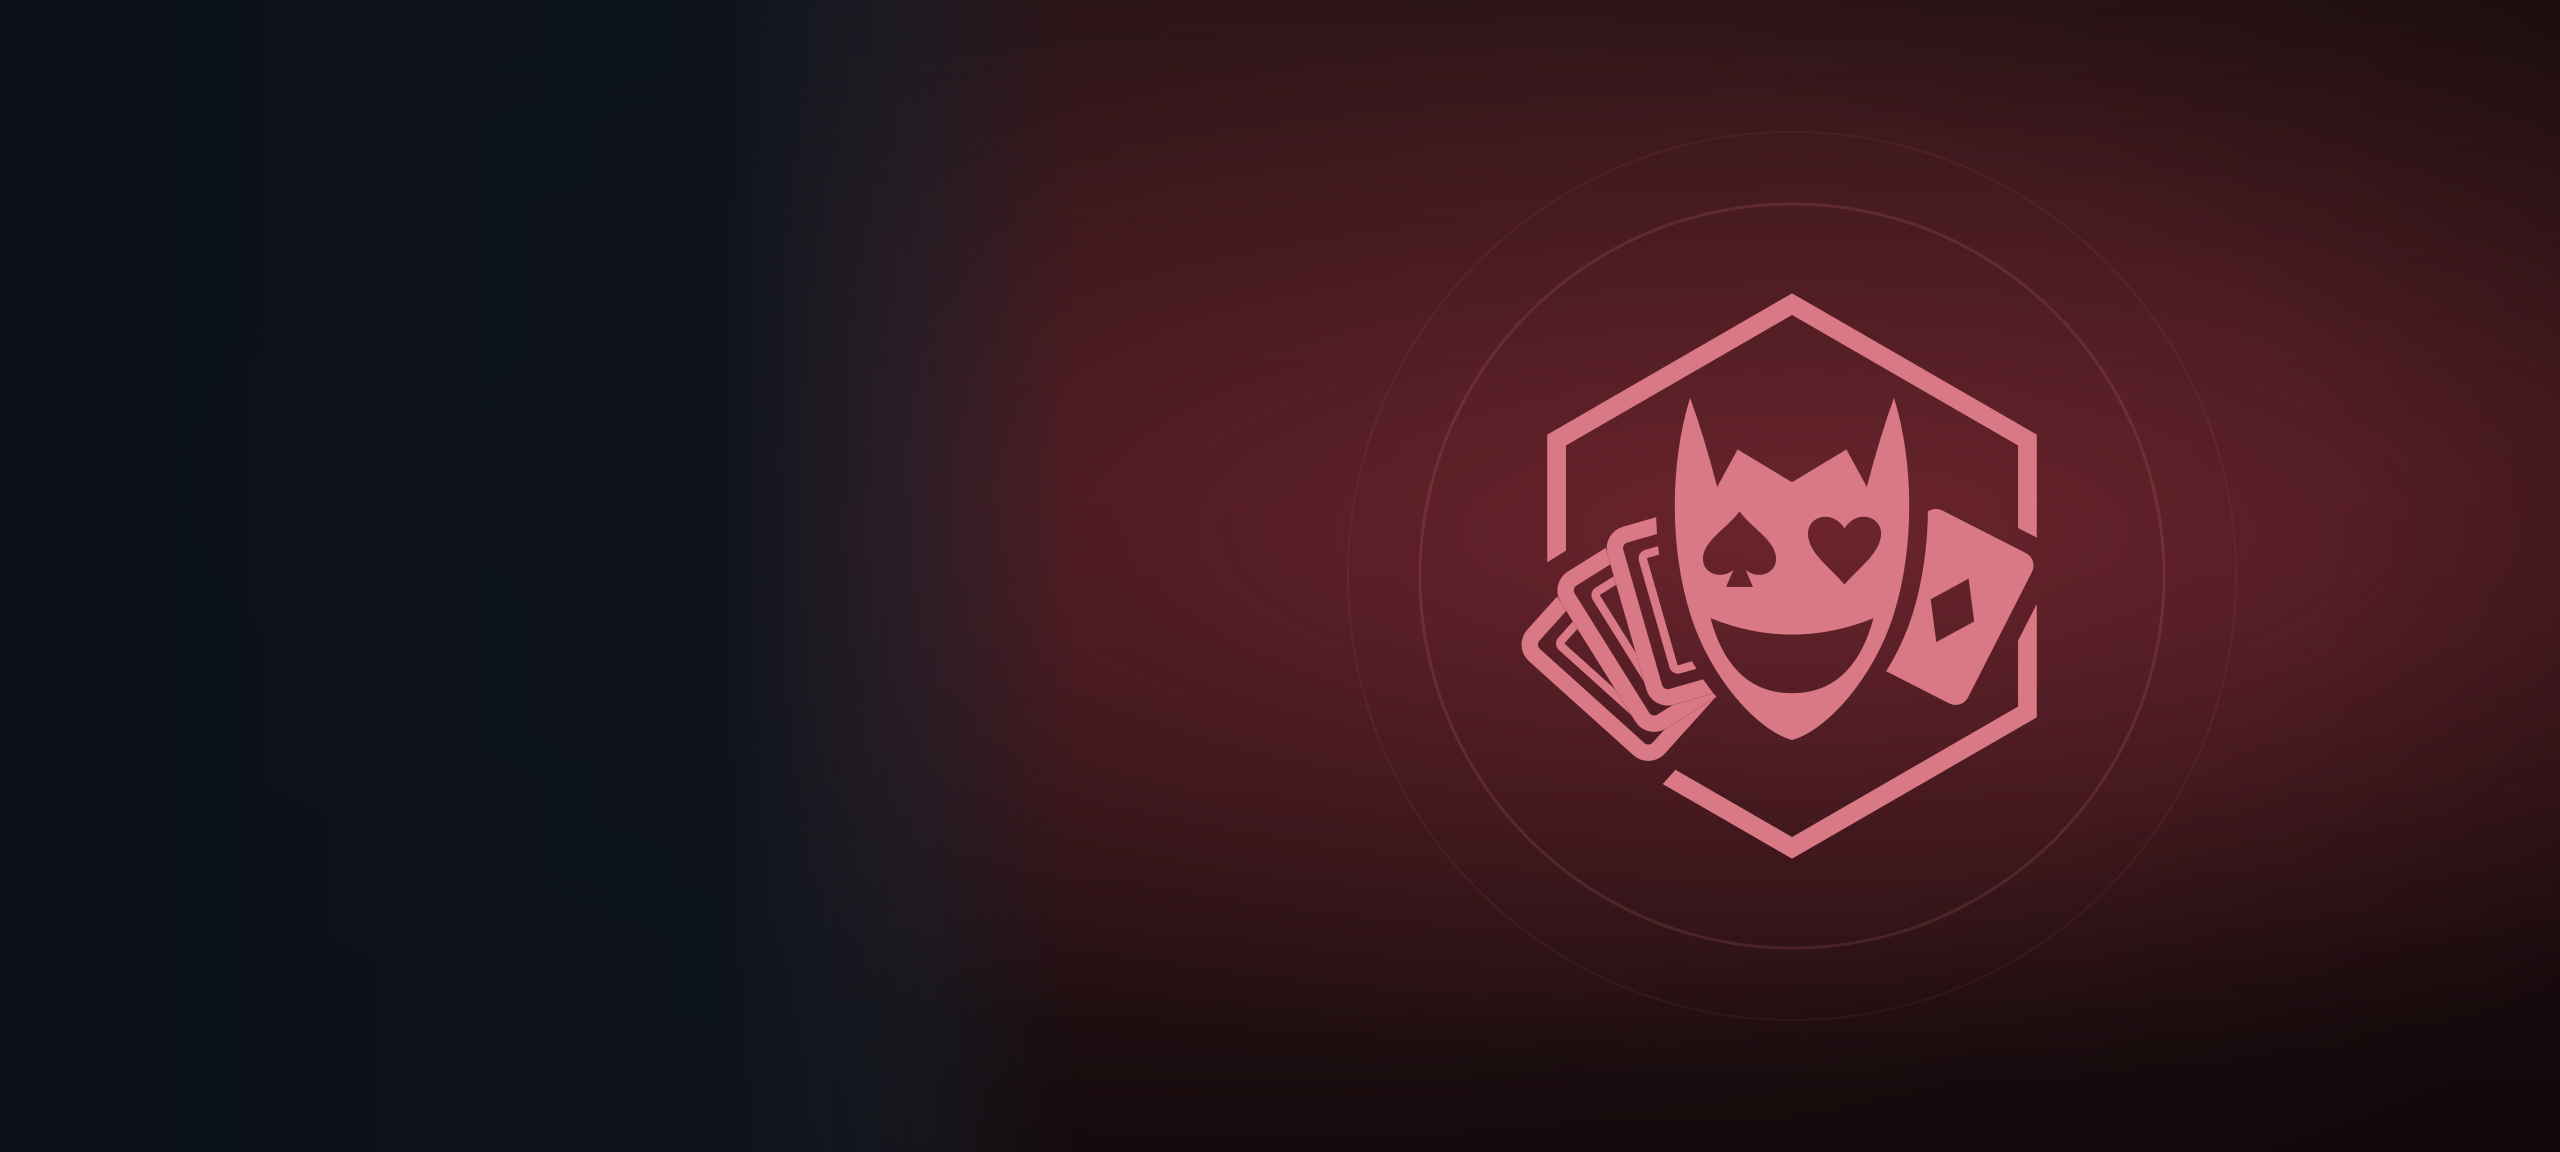
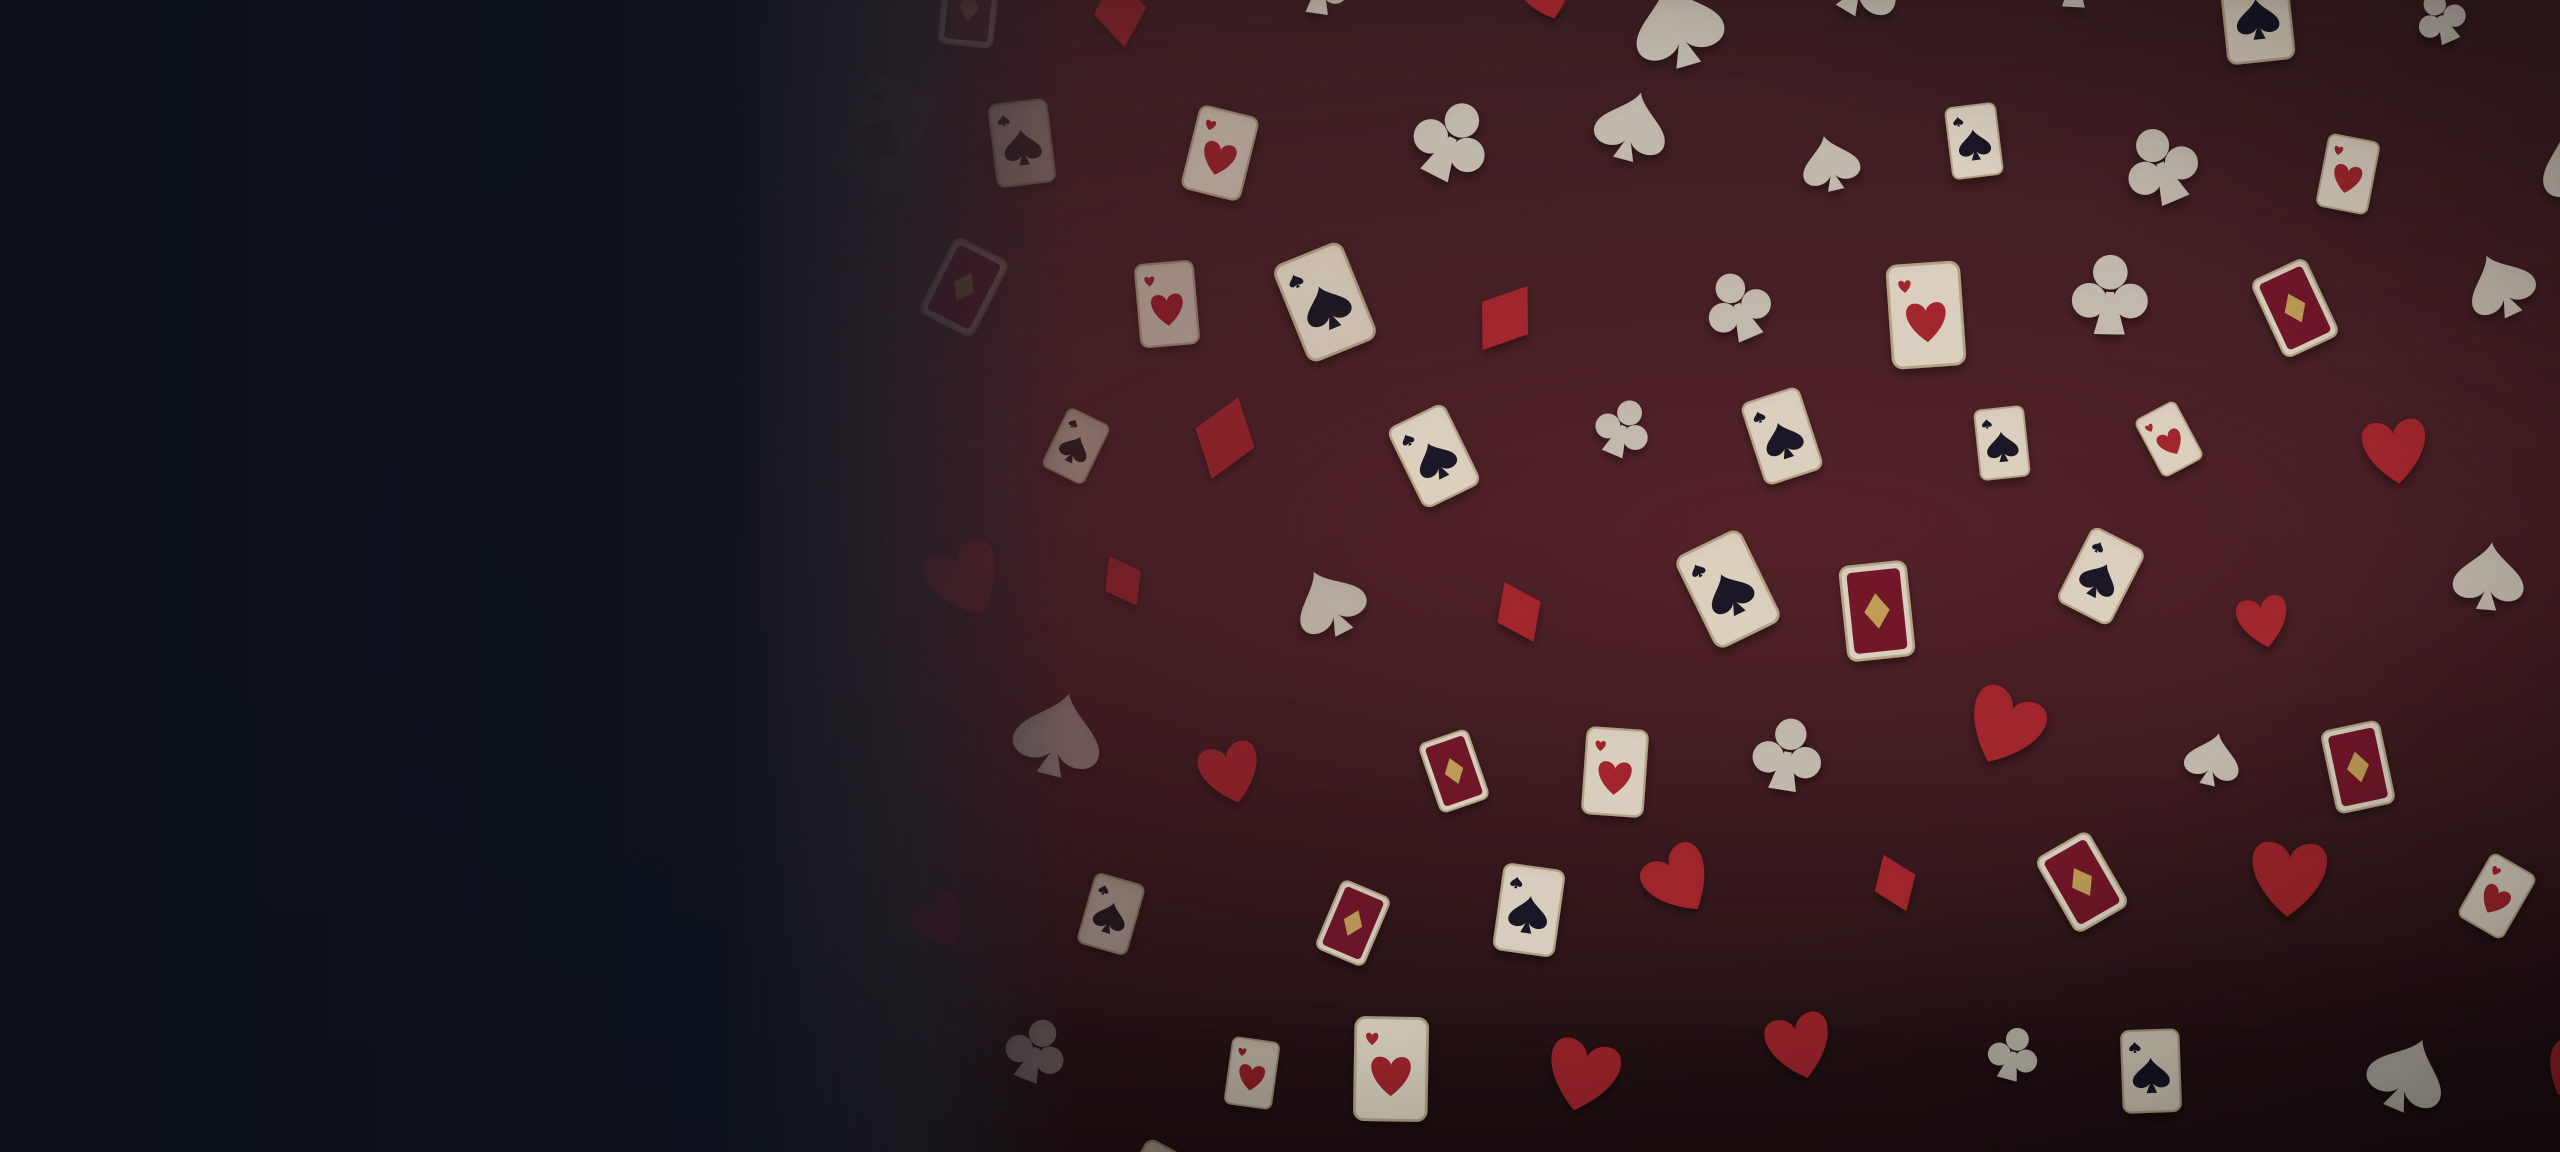
feat(art): Island splash as a wallpaper of the genre's objects; fix the spade

diff --git a/assets/AGENTS.md b/assets/AGENTS.md
@@ -6,8 +6,10 @@
   and each Island's `apps/hub/src/island-art/<island>.png`, 2560×1152) come from
   `npm run splash -- [caro|tien-len|islands]`. A Game's splash uses its client's own colours
   and shapes, so it matches the game (Caro: ink marks on squared paper; Tiến Lên: ivory cards on
-  felt). A Game whose look is not settled gets a placeholder: the Island's Emblem on a tinted
-  backdrop (the Islands'). Đặt Bom's `key-art.png` is an older render that already matches
+  felt). An Island's splash is a wallpaper of objects of its genre (`MOTIFS` in the script: marks, stones and
+  discs for Cờ; cards for Bài; dice and pawns for Xúc Xắc; bombs, stars and crates for Náo Nhiệt) on
+  a tinted backdrop, fading out to the left. A Game whose look is not settled gets the same kind of
+  placeholder. Đặt Bom's `key-art.png` is an older render that already matches
   its scene. Keep the subject in the right 60% and the left 40% dark and empty. Do not use AI image
   generation for splash art. `tools/hub-assets` checks the Games' art in its build and the
   Islands' in its tests (`checkIslandArt`).
